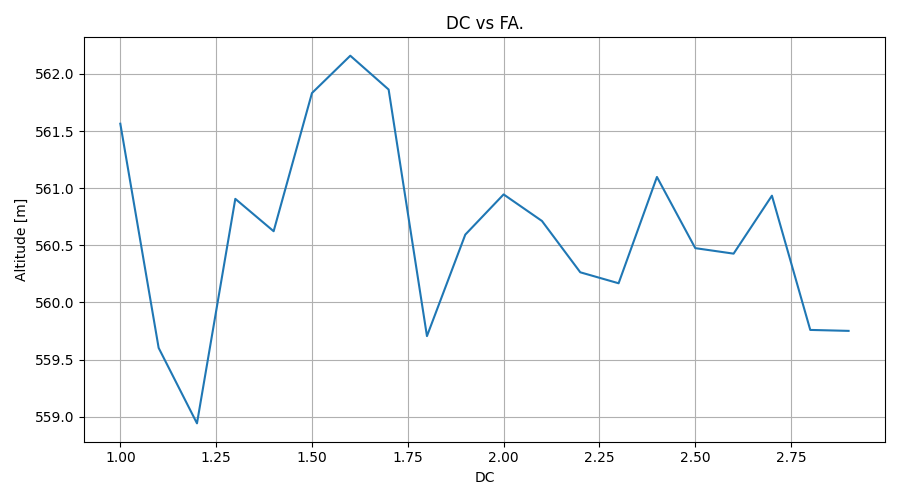
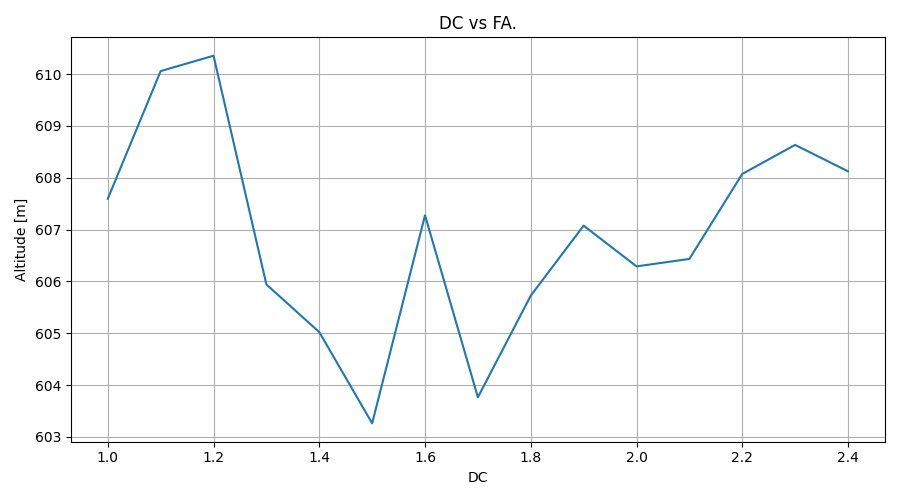
Okinawa soba (沖縄そば) is a type of noodle produced in Okinawa Prefecture, Japan. Okinawa soba is a regional collective trademark of The Okinawa Noodle Manufacturing Co-op.[1] On Okinawa, it is sometimes simply called soba (or suba in Okinawan dialects), although this Japanese term typically refers to 
The thick wheat noodles more closely resemble the texture of udon, and when served in soup, the broth is more similar to that of ramen. The noodles tend to have a circular cross section in the Yaeyama Islands and tend to be slightly flat in the rest of Okinawa Prefecture.

It is served in a broth flavored with konbu (edible seaweed), katsuobushi flakes and pork. Standard toppings are kamaboko (fish cake), sliced scallion and a thick slice of stewed san-mai niku (三枚肉, pork belly; lit. "three-layer meat") or soki (boneless pork ribs) and usually garnished with beni shōga (pickled ginger). For extra spice, diners can add a few drops of kōrēgūsu, which consists of chile peppers soaked in awamori rice liquor.

Varieties include:

Sōki soba (ソーキそば) - topped with extra ribs, known as sōki in Okinawan.
Tebichi soba (てびちそば) - topped with stewed pig's trotters.
Name
[…]

diff --git a/Predicting_BC_2.0.py b/Predicting_BC_2.0.py
@@ -28,14 +28,15 @@ Mass = 2.2
 
 reference_area = 0.08  # Average projection area of a 3U CubeSat
 drag_coefficient_lower = 1
-drag_coefficient_upper = 3
+drag_coefficient_upper = 2.5
 
 
-itterations = 20
+itterations = 15
 
 radiation_pressure_coefficient = 1.2
 
-fixed_step_size = 200.0 
+fixed_step_size = 50
+
 """Change to a lower step size when the code works"""
 
 """-------------------------------"""
@@ -50,13 +51,12 @@ with open('/workspaces/Re-entryPrediction/TLE-Data_C3.txt', 'r') as file:
     lines = file.readlines()
     TLE_sets = [(lines[i].strip(), lines[i + 1].strip()) for i in range(0, len(lines), 2)]
 
+
 initTLE = []
 # Now you can use the TLE_sets in your code like this:
 for TLE_set in TLE_sets:
     initTLE.append(environment.Tle(TLE_set[0], TLE_set[1]))
 
-
-print(TLE_set[0], TLE_set[1])
 
 def convert_epoch_day_to_date(epoch_year, epoch_day):
     # Create a datetime object for the start of the epoch year
@@ -78,6 +78,8 @@ with open('/workspaces/Re-entryPrediction/TLE-Data_C3.txt', 'r') as file:
     lines = file.readlines()
     TLE_sets = [(lines[i], lines[i + 1]) for i in range(0, len(lines), 2)]
 
+
+
 # Create lists to store the split lines
 split_TLE_sets = []
 
@@ -90,10 +92,13 @@ for TLE_set in TLE_sets:
     # Add the split lines to the list
     split_TLE_sets.append((line1, line2))
 
+
 # Now split_TLE_sets is a list of tuples, where each tuple is a pair of split lines (a TLE set)
 # You can access the first split TLE set like this:
 TLE_1 = split_TLE_sets[TLE1_number]
 TLE_2 = split_TLE_sets[TLE2_number]
+
+
 
 def parse_TLE(TLE):
     TLE_line1 = TLE[0]
@@ -177,14 +182,16 @@ parsed_TLE1 = parse_TLE(TLE_1)
 parsed_TLE2 = parse_TLE(TLE_2)
 
 
-print('\n')
+second_TLE = initTLE[TLE2_number]
+
+
+
 print('\n')
 print("The code will run from", parsed_TLE1['Date'], "to", parsed_TLE2['Date'])
 print('It will run for a drag coefficient between', drag_coefficient_lower, 'and', drag_coefficient_upper,'with a step size of', step_size)
 print('\n')
 print('Grab yourself some coffee, this might take a while...')
 print('\n')
-
 
     
 # And access the values like this:
@@ -320,21 +327,49 @@ acceleration_settings = {"Delfi-C3": accelerations_settings_delfi_c3}
 # Set initial conditions for the satellite that will be
 # propagated in this simulation. The initial conditions are given in
 # Keplerian elements and later on converted to Cartesian elements
+
+
+ephemerisdef = environment.TleEphemeris( "Earth", "J2000", initTLE[TLE1_number], False )
+state = ephemerisdef.cartesian_state(simulation_start_epoch)
+#print(element_conversion.cartesian_to_keplerian(state, bodies.get("Earth").gravitational_parameter))
+
+
+
 earth_gravitational_parameter = bodies.get("Earth").gravitational_parameter
 initial_state = element_conversion.keplerian_to_cartesian_elementwise(
     gravitational_parameter=earth_gravitational_parameter,
-    semi_major_axis= float(parsed_TLE1['Semi_Major_Axis']),
-    eccentricity= float(parsed_TLE1['Eccentricity']),
-    inclination=np.deg2rad(float(parsed_TLE1['Inclination'])),
-    argument_of_periapsis=np.deg2rad(float(parsed_TLE1['Arg_Perigee'])),
-    longitude_of_ascending_node=np.deg2rad(float(parsed_TLE1['RAAN'])),
-    true_anomaly=element_conversion.mean_to_true_anomaly(eccentricity=float(parsed_TLE1['Eccentricity']), mean_anomaly=np.deg2rad(float(parsed_TLE1['Mean_Anomaly']))),
+    semi_major_axis= float(element_conversion.cartesian_to_keplerian(state, bodies.get("Earth").gravitational_parameter)[0]),
+    eccentricity= float(element_conversion.cartesian_to_keplerian(state, bodies.get("Earth").gravitational_parameter)[1]),
+    inclination=float(element_conversion.cartesian_to_keplerian(state, bodies.get("Earth").gravitational_parameter)[2]),
+    argument_of_periapsis=float(element_conversion.cartesian_to_keplerian(state, bodies.get("Earth").gravitational_parameter)[3]),
+    longitude_of_ascending_node=float(element_conversion.cartesian_to_keplerian(state, bodies.get("Earth").gravitational_parameter)[4]),
+    true_anomaly=element_conversion.mean_to_true_anomaly(float(element_conversion.cartesian_to_keplerian(state, bodies.get("Earth").gravitational_parameter)[1]), mean_anomaly=float(float(element_conversion.cartesian_to_keplerian(state, bodies.get("Earth").gravitational_parameter)[5]))),
 )
 
 
-ephemerisdef = environment.TleEphemeris( "Earth", "J2000", initTLE[0], False )
-state = ephemerisdef.cartesian_state(simulation_start_epoch)
-print(element_conversion.cartesian_to_keplerian(state, bodies.get("Earth").gravitational_parameter))
+ephemerisdef_2 = environment.TleEphemeris( "Earth", "J2000", second_TLE, False )
+state_2 = ephemerisdef_2.cartesian_state(simulation_end_epoch)
+#print(element_conversion.cartesian_to_keplerian(state_2, bodies.get("Earth").gravitational_parameter))
+
+Semi_major_axisFinal = element_conversion.cartesian_to_keplerian(state_2, bodies.get("Earth").gravitational_parameter)[0]
+eccentricityFinal = element_conversion.cartesian_to_keplerian(state_2, bodies.get("Earth").gravitational_parameter)[1]
+
+#print(parsed_TLE1['Semi_Major_Axis'])
+#print(parsed_TLE1['Eccentricity'])
+#print(element_conversion.cartesian_to_keplerian(state, bodies.get("Earth").gravitational_parameter)[0])
+#print(parsed_TLE2['Semi_Major_Axis'])
+#print(element_conversion.cartesian_to_keplerian(state_2, bodies.get("Earth").gravitational_parameter)[0])
+#print(state)
+#print(state_2)
+#print(element_conversion.cartesian_to_keplerian(state, bodies.get("Earth").gravitational_parameter)) and print(element_conversion.cartesian_to_keplerian(state_2, bodies.get("Earth").gravitational_parameter))
+
+RaFinal = Semi_major_axisFinal*(1+eccentricityFinal)
+RpFinal = Semi_major_axisFinal*(1-eccentricityFinal)
+
+Height_apoFinal = RaFinal/1000 - 6371
+Height_periFinal = RpFinal/1000 - 6371
+VaFinal = math.sqrt((3.9860044188*10**14*2*RpFinal)/(RaFinal*(RaFinal+RpFinal)))
+VpFinal = math.sqrt((3.9860044188*10**14*2*RaFinal)/(RpFinal*(RaFinal+RpFinal)))
 # ### Define dependent variables to save
 # In this example, we are interested in saving not only the propagated state of the satellite over time, but also a set of so-called dependent variables, that are to be computed (or extracted and saved) at each integration step.
 # 
@@ -391,13 +426,13 @@ termination_condition = propagation_setup.propagator.hybrid_termination(terminat
 
 # Create numerical integrator settings
 
-# integrator_settings = propagation_setup.integrator.runge_kutta_4(fixed_step_size)
+#integrator_settings = propagation_setup.integrator.runge_kutta_4(fixed_step_size)
 # integrator_settings = propagation_setup.integrator.adams_bashforth_moulton(fixed_step_size, 5.0, 150, minimum_order=6, maximum_order=11)
-integrator_settings = propagation_setup.integrator.bulirsch_stoer_variable_step(initial_time_step=fixed_step_size,extrapolation_sequence = propagation_setup.integrator.deufelhard_sequence, maximum_number_of_steps=7, 
-                                                                                step_size_control_settings =propagation_setup.integrator.step_size_control_elementwise_scalar_tolerance(1.0E-10, 1.0E-10, minimum_factor_increase=0.05),
-                                                                                step_size_validation_settings =propagation_setup.integrator.step_size_validation(0.1, 10000.0),
-                                                                                assess_termination_on_minor_steps = False)
-
+#integrator_settings = propagation_setup.integrator.bulirsch_stoer_variable_step(initial_time_step=fixed_step_size,extrapolation_sequence = propagation_setup.integrator.deufelhard_sequence, maximum_number_of_steps=7, 
+                                                                                #step_size_control_settings =propagation_setup.integrator.step_size_control_elementwise_scalar_tolerance(1.0E-10, 1.0E-10, minimum_factor_increase=0.05),
+                                                                                #step_size_validation_settings =propagation_setup.integrator.step_size_validation(0.1, 10000.0),
+                                                                                #assess_termination_on_minor_steps = False)
+integrator_settings = propagation_setup.integrator.runge_kutta_fixed_step(time_step=fixed_step_size, coefficient_set=propagation_setup.integrator.rkf_78)
 
 # processing_settings = propagation_setup.propagator.SingleArcPropagatorProcessingSettings()
 
@@ -452,7 +487,8 @@ for i in range(itterations):
     propagator_settings.print_settings.print_dependent_variable_indices = False
     propagator_settings.print_settings.print_state_indices = False
     # propagator_settings.print_settings.results_print_frequency_in_seconds = 0.5e7
-    propagator_settings.print_settings.results_print_frequency_in_steps =100000
+    #propagator_settings.print_settings.results_print_frequency_in_steps =100000
+    propagator_settings.print_settings.results_print_frequency_in_steps = False
 
    
     DC.append(drag_coefficient)
@@ -488,15 +524,15 @@ for i in range(itterations):
     Vp = math.sqrt((3.9860044188*10**14*2*Ra[-1])/(Rp[-1]*(Ra[-1]+Rp[-1])))
     Va = math.sqrt((3.9860044188*10**14*2*Rp[-1])/(Ra[-1]*(Ra[-1]+Rp[-1])))
     print('For a drag coefficient of',round(drag_coefficient,2),'the TLE data versus the simulation data is as follows:')
-    print(parsed_TLE2['Height_Apo'], Height_apo[-1])
-    print(parsed_TLE2['Height_Peri'], Height_peri[-1])
-    print(parsed_TLE2['Vp'], Vp)
-    print(parsed_TLE2['Va'], Va)
+    print(Height_apoFinal, Height_apo[-1])
+    print(Height_periFinal, Height_peri[-1])
+    print(VpFinal, Vp)
+    print(VaFinal, Va)
 
 
 
 
-    MSE = (1/4) * ((Height_apo[-1] - parsed_TLE2['Height_Apo'])**2 + (Height_peri[-1] - parsed_TLE2['Height_Peri'])**2 + (Vp - parsed_TLE2['Vp'])**2 + (Va - parsed_TLE2['Va'])**2)
+    MSE = (1/4) * ((Height_apo[-1] - Height_apoFinal)**2 + (Height_peri[-1] - Height_periFinal)**2 + (Vp - VpFinal)**2 + (Va - VaFinal)**2)
     print(MSE)
     Error.append(MSE)
     FA.append(Height_apo[-1])
